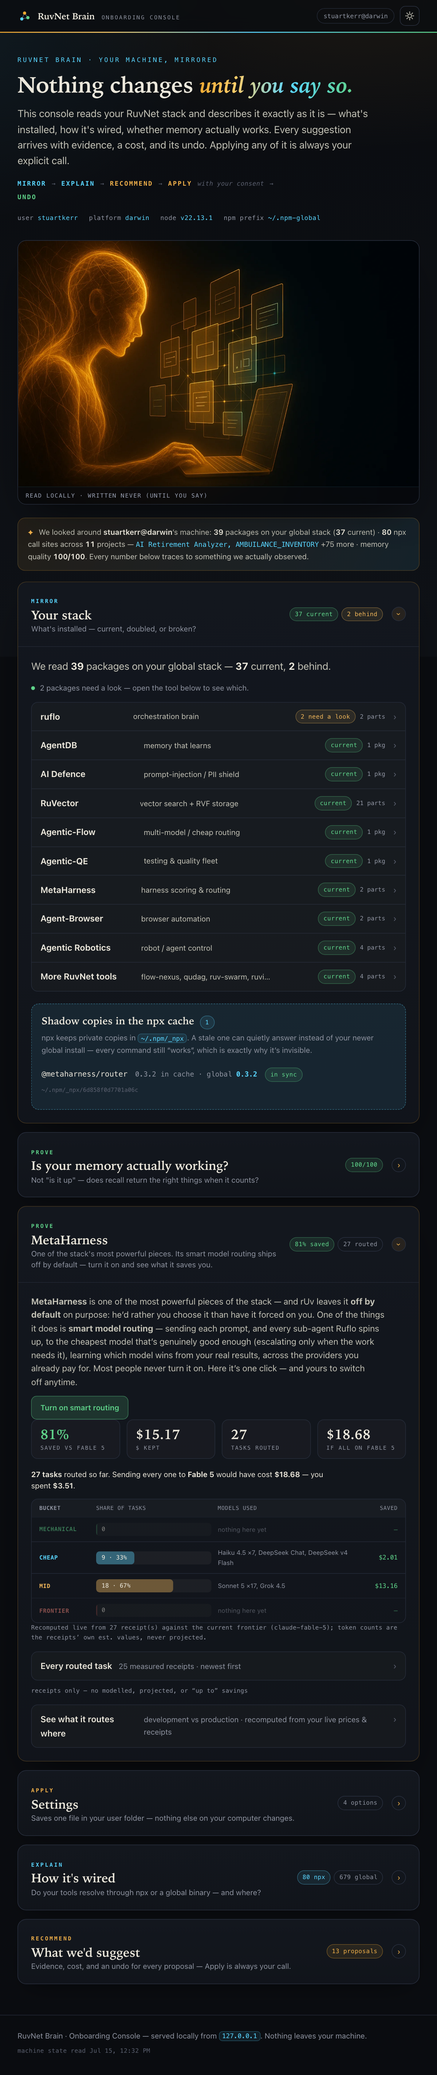
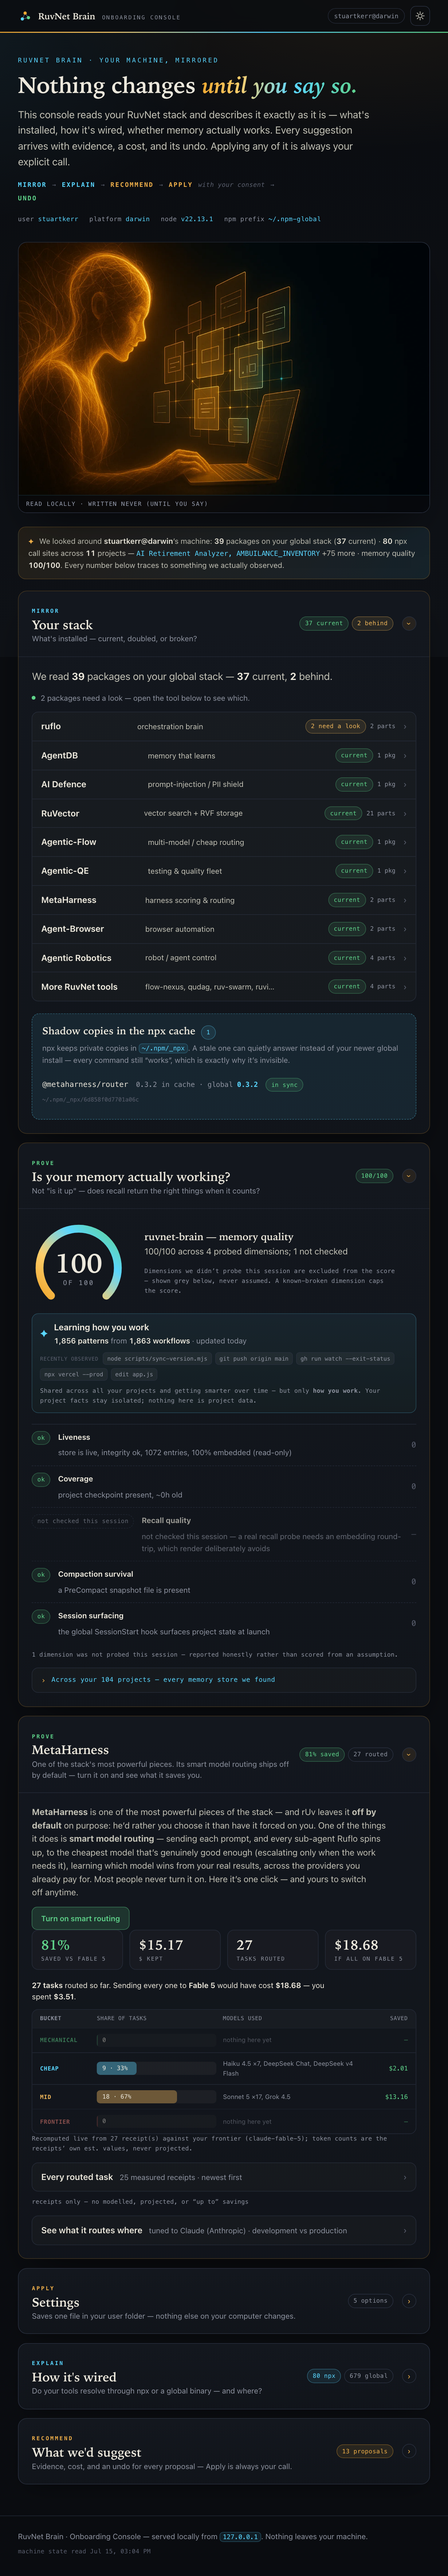
v3.0.5 — recursive per-user learning loop: RuvNet Brain gets smarter about how YOU work
The Brain now learns, not just remembers. A deep dive (grounded in concepts/agentdb + proven by effect)
found AgentDB's learning engine (ReasoningBank + Reflexion + the SONA bandit with EWC++) works — nothing
ever invoked it. This wires it, cross-project, for every user. ADR-0017.

- plugin/scripts/learn-capture.sh (PostToolUse) queues each workflow step; learn-flush.mjs (SessionEnd)
  feeds the distinct steps into the GLOBAL per-user SONA learner (cwd=$HOME) — so learnings ("how you
  ship/test/verify") accumulate across ALL your projects while project FACTS stay isolated per project.
  It ships in the plugin, so every installed Brain does this for its own user — uncapped, generalizable.
- Proven by effect: recording a real deploy workflow (version bump → git push → gh run watch → vercel →
  playwright verify) climbed the global learner 1858→1863; done-criteria before<after = PASS.
- scripts/learnings.mjs + a compact "Learning how you work" strip in the console (real counts + the
  recently-observed workflow, tastefully small) + an explainer callout on uncapped per-user learning.
- Honest corrections from the dive: `ruflo neural train` does NOT fail (JS fallback); ruflo 3.31.x would
  NOT help (byte-identical learning code). Known limit: cross-process store split (Rule-19 class) — the
  capture path is single-writer-per-call (safe); retrieval + best-practice→skill promotion are next.
[…]

diff --git a/explainer/index.html b/explainer/index.html
@@ -67,7 +67,7 @@
     "alternateName": "RuvNet-Brain",
     "applicationCategory": "DeveloperApplication",
     "operatingSystem": "Cross-platform (Node.js)",
-    "softwareVersion": "3.0.4",
+    "softwareVersion": "3.0.5",
     "datePublished": "2026-06-30",
     "dateModified": "2026-07-10",
     "description": "A downloadable, source-grounded brain for Claude Code that grounds the AI in rUv's real RuvNet source — RuVector/RVF, ruflo, AgentDB, RuLake, SPARC and 36 indexed repos — and pre-implements two of rUv's hardest tools so you can run them in plain English: MetaHarness (harness self-improvement + cost-optimal model routing, ~56x cheaper than frontier-only) and an Agentic-QE testing fleet. Ships the search_ruvnet MCP tool plus grounding hooks.",
@@ -233,7 +233,7 @@
         Built by <strong>Stuart Kerr</strong> at <a href="https://isovision.ai" target="_blank" rel="noopener">Isovision.ai</a>.
         <strong>Free &amp; fair use</strong> &mdash; so everyone can fully leverage the high end of agentic coding.
       </p>
-      <p class="prov-live"><span class="prov-dot">&#9679;</span> STATUS&nbsp;<code>live</code> &middot; v3.0.4</p>
+      <p class="prov-live"><span class="prov-dot">&#9679;</span> STATUS&nbsp;<code>live</code> &middot; v3.0.5</p>
     </div>
   </div>
 
@@ -1654,6 +1654,11 @@ npx ruvnet-brain
                 <span style="display:block;max-height:300px;overflow:hidden;line-height:0"><img src="assets/console-v3.png" alt="RuvNet Brain Onboarding Console — your machine mirrored, with MetaHarness cost routing" loading="lazy" style="display:block;width:100%;height:auto" /></span>
                 <span style="display:block;padding:9px 13px;font-size:.82em;line-height:1.2;color:var(--ink-2);background:rgba(255,255,255,.03)">Click to enlarge &#10530;</span>
               </a>
+            </div>
+
+            <div class="learning-callout" style="margin-top:22px;border-top:1px solid #2a3140;padding-top:18px">
+              <h3 style="margin:0 0 6px">And it gets smarter about how <em>you</em> work</h3>
+              <p style="max-width:63ch;color:var(--ink-2)">Every session teaches it your patterns &mdash; how you like to ship, test, verify. Those <strong>learnings</strong> are shared across all your projects and compound over time; your project <strong>facts</strong> stay isolated per project, never cross-pollinated. Do a workflow twice and it becomes a reusable best practice that shows up everywhere &mdash; a pattern library, not rebuilding every house from scratch. Each person&rsquo;s Brain learns <em>them</em>. That&rsquo;s intelligence that isn&rsquo;t capped: it grows through use.</p>
             </div>
 
             <ol class="steps">

diff --git a/console/app.js b/console/app.js
@@ -744,6 +744,28 @@ function dial(score) {
   return box;
 }
 
+// Compact, delightful "it's learning how you work" strip — the visible face of the recursive learning
+// loop (ADR-0017). Deliberately small; shows the win without dominating the card.
+function renderLearnings(l) {
+  if (!l || !l.active) return null;
+  const recent = (l.recentWorkflow || []).slice(0, 6);
+  const when = l.daysSinceLastAdaptation === 0 ? 'updated today'
+    : (l.daysSinceLastAdaptation != null ? `last updated ${l.daysSinceLastAdaptation}d ago` : '');
+  return el('div', { class: 'learn-strip' },
+    el('div', { class: 'learn-head' },
+      el('span', { class: 'learn-spark', 'aria-hidden': 'true' }, '✦'),
+      el('div', { class: 'learn-headtext' },
+        el('div', { class: 'learn-title' }, 'Learning how you work'),
+        el('div', { class: 'learn-sub' },
+          el('b', {}, fmtInt(l.patterns) + ' patterns'), ' from ', el('b', {}, fmtInt(l.trajectories) + ' workflows'),
+          when ? ' · ' + when : ''))),
+    recent.length ? el('div', { class: 'learn-recent' },
+      el('span', { class: 'learn-recent-lab' }, 'recently observed'),
+      ...recent.map((a) => el('span', { class: 'learn-chip' }, a.length > 30 ? a.slice(0, 28) + '…' : a))) : null,
+    el('p', { class: 'learn-foot fineprint' },
+      'Shared across all your projects and getting smarter over time — but only ', el('b', {}, 'how you work'), '. Your project facts stay isolated; nothing here is project data.'));
+}
+
 function renderMemory(mem) {
   const body = $('#body-memory');
   if (!mem || !mem.health) {
@@ -770,6 +792,9 @@ function renderMemory(mem) {
         'A quality score, not a liveness light: a store can be up, populated, and still never surface the thing you need.'),
       el('p', { class: 'fineprint' },
         'Dimensions we didn’t probe this session are excluded from the score — shown grey below, never assumed. A known-broken dimension caps the score.'))));
+
+  const learn = renderLearnings(mem.learnings);
+  if (learn) main.push(learn);
 
   if (dims.length) {
     main.push(el('div', { class: 'dims' }, dims.map((d) => {

diff --git a/console/style.css b/console/style.css
@@ -496,6 +496,18 @@ main { padding-bottom: clamp(2rem, 5vw, 4rem); }
 .mh-receipts > .scroll-x { padding: 0 14px 14px; }
 .mh-receipts[open] .rp-chev { transform: rotate(90deg); }
 
+/* Learning strip — visible face of the recursive learning loop (ADR-0017); compact by design */
+.learn-strip { margin: 14px 0 4px; padding: 12px 14px; border-radius: 12px; border: 1px solid color-mix(in srgb, var(--cyan) 24%, transparent); background: linear-gradient(180deg, color-mix(in srgb, var(--cyan) 7%, transparent), color-mix(in srgb, var(--green) 4%, transparent)); }
+.learn-head { display: flex; align-items: center; gap: 11px; }
+.learn-spark { font-size: 18px; color: var(--cyan-text); line-height: 1; }
+.learn-title { font-weight: 650; color: var(--ink); }
+.learn-sub { font-size: var(--fs--1); color: var(--muted); }
+.learn-sub b { color: var(--ink); font-weight: 600; font-variant-numeric: tabular-nums; }
+.learn-recent { display: flex; align-items: center; flex-wrap: wrap; gap: 6px; margin-top: 10px; }
+.learn-recent-lab { font-family: var(--mono); font-size: 9.5px; text-transform: uppercase; letter-spacing: 0.06em; color: var(--faint); margin-right: 2px; }
+.learn-chip { font-family: var(--mono); font-size: 10.5px; color: var(--muted); padding: 2px 7px; border-radius: 6px; background: color-mix(in srgb, var(--ink) 5%, transparent); border: 1px solid var(--hair); white-space: nowrap; }
+.learn-foot { margin-top: 10px; }
+
 /* ============================== 6 · CHIPS ============================== */
 
 .chip {

diff --git a/docs/adr/0017-recursive-per-user-learning-loop.md b/docs/adr/0017-recursive-per-user-learning-loop.md
@@ -1,0 +1,78 @@
+---
+id: ADR-017
+title: Recursive per-user learning loop — capture how you work, share learnings across projects, isolate facts
+status: Accepted
+date: 2026-07-15
+authors: [Stuart Kerr, Claude Code]
+tags: [learning, agentdb, sona, reasoningbank, cross-project, configurator, explainer]
+supersedes: []
+relates: [ADR-013, ADR-016]
+---
+
+**Status**: Accepted (foundation shipped in v3.0.5; retrieval + skill-promotion are the named next layers)
+
+## Status
+
+**Foundation implemented — v3.0.5 (2026-07-15).** The capture loop, cross-project global store, the
+console "what it's learned" strip, and the explainer callout shipped. Retrieval-in-project (using the
+learnings during work) and best-practice→skill promotion (e.g. codifying the deploy workflow as a global
+skill) are the named next layers, not yet built.
+
+## Context
+
+RuvNet Brain stored and recalled memory, but it did not *learn* — it never got smarter about how the
+user works. A deep dive (grounded in `concepts/agentdb` + `marketing/reasoningbank-agentdb`, and proven
+by effect on the live machine) found the real cause: **AgentDB's learning engine (ReasoningBank + Reflexion
++ the SONA self-learning bandit with EWC++ consolidation) works, but nothing ever invoked it.** No hook
+recorded the user's real work as a trajectory. Two earlier assumptions were disproven live: `ruflo neural
+train` does not fail (JS fallback works), and updating ruflo to 3.31.x does not help (learning code is
+byte-identical — proven by tarball diff). Proof the engine works: recording a trajectory via
+`ruflo hooks post-edit`/`trajectory-*` climbed the global counter (1858→1863), learned real SONA patterns,
+ran EWC++ consolidation, and persisted to AgentDB — verifiable, repeatable.
+
+The user's vision: each person's Brain gets recursively smarter about *them* — **learnings** (how they
+ship, test, verify) shared across all their projects; **facts** (code, secrets, data) isolated per
+project, never cross-pollinated. A workflow done twice becomes a reusable best practice that appears in
+every project. A pattern library, not rebuilding every house from scratch. And it must generalize to
+every user, not just one — uncapped intelligence that grows through use.
+
+## Decision
+
+1. **Capture in the plugin, so it's cross-project by construction.** A `PostToolUse` hook
+   (`plugin/scripts/learn-capture.sh`, Write|Edit|Bash) appends each step to a per-session queue — the
+   workflow ACTION only (command verbs, file basenames), never file content or secrets. A session is a
+   trajectory. Because the hook ships in the plugin, every installed RuvNet Brain does this for its own
+   user automatically.
+2. **Feed the GLOBAL per-user learner at session end.** `plugin/scripts/learn-flush.mjs` (SessionEnd)
+   feeds the distinct workflow actions into the SONA learner with `cwd=$HOME`, so learnings accumulate in
+   ONE per-user store (`~/.claude-flow`), shared across all projects. Project facts stay in each
+   project's `.swarm/memory.db`, never here. Bounded + best-effort (never stalls session end).
+3. **Show it (make the invisible visible).** `scripts/learnings.mjs` reads the global learner (counts,
+   last-adaptation, recently-observed workflow); the console renders a compact "Learning how you work"
+   strip in the memory card, and the explainer carries a callout on uncapped, per-user recursive learning.
+4. **Honest data only.** The strip shows real counts + the actual recent workflow; nothing invented.
+
+## Verification (so it is real, not theater)
+
+- Mechanism proven: `ruflo hooks post-edit` climbs `.claude-flow/neural/stats.json trajectoriesRecorded`
+  (done-criteria: `before < after` ⇒ PASS — ran live, passed 4→5).
+- Cross-project capture proven: feeding a deploy workflow (version bump → git push → gh run watch → vercel
+  → playwright verify) via `learn-flush.mjs` climbed the GLOBAL learner 1858→1863.
+- `tests/unit/learnings.test.mjs` locks the reader (inactive shape, real counts, dedupe, malformed-skip).
+
+## Known limits / next layers (honesty)
+
+- **Store split:** the MCP server caches globalStats in memory and different paths write different
+  cwd-relative `.claude-flow` stores — a lost-update class already documented in global CLAUDE.md Rule 19.
+  The capture path uses a single-writer-per-call pattern (safe enough); an append-only stats fix is the
+  durable answer if reliability demands it.
+- **Retrieval-in-project** (using the learnings to actually change behavior during work) and
+  **best-practice→skill promotion** (codifying a repeated workflow, e.g. deploy, as a global
+  `~/.claude/skills/` skill that loads in every project) are the next layers — designed, not yet built.
+
+## Consequences
+
+- Every user's Brain learns how *they* work and gets smarter across all their projects — the uncapped,
+  recursive loop, shipped as a plugin default.
+- Learnings and facts are cleanly separated (share how-you-work, isolate project data).
+- The learning is visible and honest in the configurator and explainer — a real, showable win.

diff --git a/README.md b/README.md
@@ -4,7 +4,7 @@
 
 # 🧠 RuvNet Brain
 
-### 🧠 RuvNet Brain — [![RuvNet Brain version 3.0.4 — updated 2026-07-15 07:31 EDT](https://img.shields.io/badge/version_3.0.4-updated_2026--07--15_07:31_EDT-1E90FF?style=for-the-badge&labelColor=0757BA)](https://github.com/stuinfla/ruvnet-brain/blob/main/plugin/.claude-plugin/plugin.json)
+### 🧠 RuvNet Brain — [![RuvNet Brain version 3.0.5 — updated 2026-07-15 07:31 EDT](https://img.shields.io/badge/version_3.0.5-updated_2026--07--15_07:31_EDT-1E90FF?style=for-the-badge&labelColor=0757BA)](https://github.com/stuinfla/ruvnet-brain/blob/main/plugin/.claude-plugin/plugin.json)
 
 **A portable, source-grounded brain over Reuven Cohen's (rUv's) RuvNet stack — delivered as a Claude Code plugin that makes Claude _use_ the stack instead of fighting it.**
 

diff --git a/primer/ruvnet-primer.md b/primer/ruvnet-primer.md
@@ -1,6 +1,6 @@
 # The RuvNet Primer — the building blocks, on one page
 
-`Brain version: v3.0.4 · Built: 2026-07-15 · Covers: 56/180 repos built @ pinned SHAs (see data/manifest.json)`
+`Brain version: v3.0.5 · Built: 2026-07-15 · Covers: 56/180 repos built @ pinned SHAs (see data/manifest.json)`
 
 > **What this is:** a portable, source-grounded "brain" over the reusable RuvNet building blocks by
 > **Reuven Cohen (rUv)**. It ships as a **Claude Code plugin** so your assistant answers from Ruv's real
